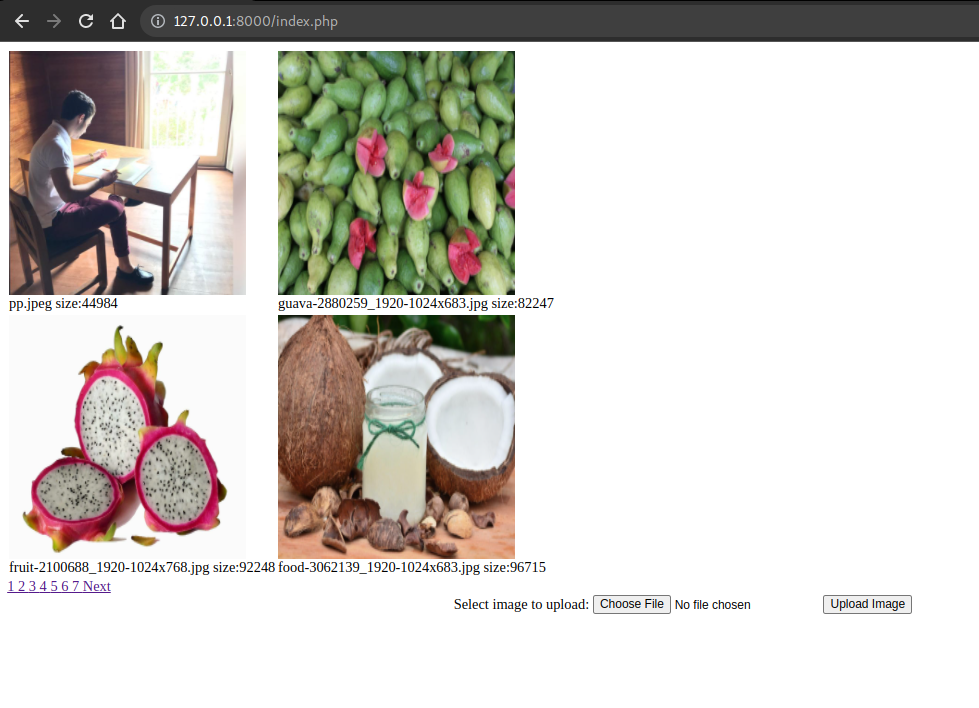
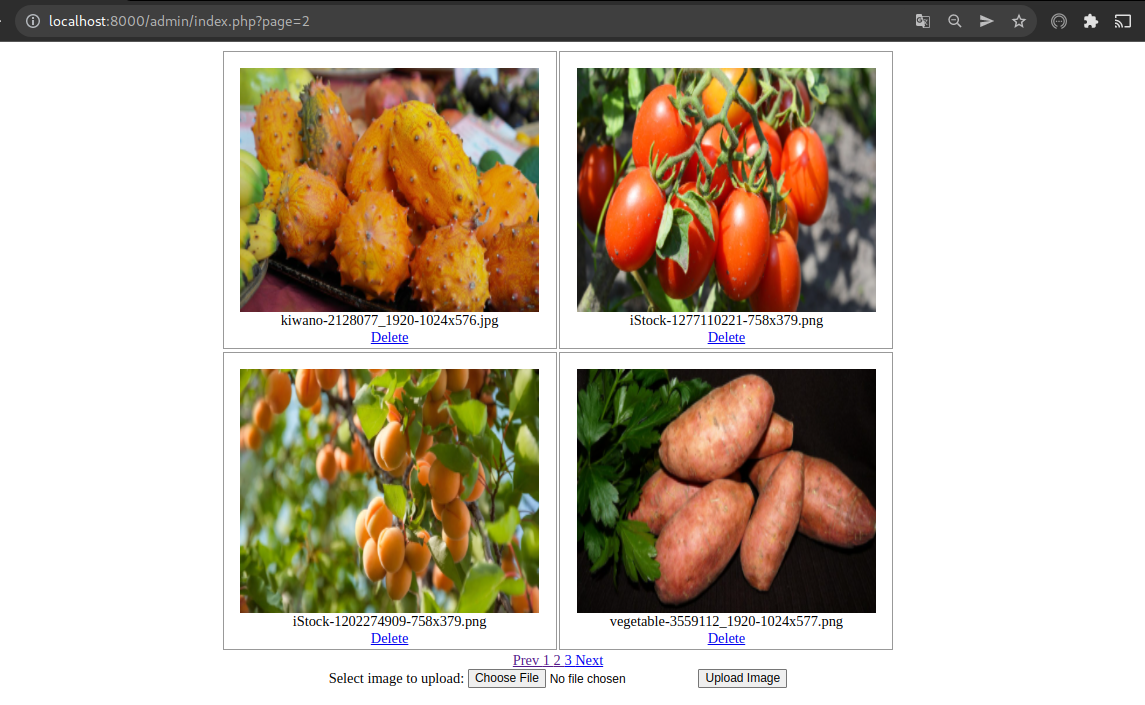
Update CSS

diff --git a/admin/index.php b/admin/index.php
@@ -2,6 +2,27 @@
 
 <head>
 	<title> Pagination </title>
+	<style>
+		.img-frame-cap {
+			width: 333px;
+			background: #fff;
+			padding: 18px 18px 2px 18px;
+			border: 1px solid #999;
+			text-align: center;
+			display: block;
+		}
+
+		.caption {
+			text-align: center;
+			margin-top: 4px;
+			font-size: 12px;
+		}
+
+		.center {
+			margin-left: auto;
+			margin-right: auto;
+		}
+	</style>
 </head>
 
 <body>
@@ -56,16 +77,20 @@
 	$images_per_raw = 2;
 
 	// Start of table
-	echo "<table>";
+	echo "<table class='center'>";
 	echo "<tr>";
 	//Display the data retrieved in a table
 	while ($row = mysqli_fetch_array($result)) {
 		$i = $i + 1;
-		echo "<td>";
-		echo "<img src=" . '"../' . $row['name'] . '" style="height:271px; max-height: 336px; max-width:336px; width: 263px;"' . ">" . '<br>';
-		echo 'Name: ' . $row['origin'];
-		echo "<br>";
-		echo "<a style='text-align: center;' href='?id=" , $row['origin'], "'>Delete </a>";
+		echo '<td>';
+		echo "<div class='img-frame-cap'>";
+		echo "<img src=" . '"../' . $row['name'] . '" style="height:271px; max-height: 336px; max-width:336px; width: 333px;"' . ">" . '<br>';
+		echo "<div classe='caption'>";
+		echo $row['origin'] . "</div>";
+		echo "<div style='text-align: center;'>";
+		echo "<a href='?id=", $row['origin'], "'>Delete </a>" . "</div>";
+		echo "</div>";
+
 		echo "</td>";
 		if ($i % $images_per_raw == 0) {
 			echo "</tr>";
@@ -79,7 +104,7 @@
 
 
 	//Displaying hrefs to each page number with prev and nesxt
-
+	echo "<div style='text-align: center;'>";
 	if ($page >= 2) {
 		echo "<a href='index.php?page=" . ($page - 1) . "'>  Prev </a>";
 	}
@@ -97,7 +122,7 @@
 	if ($page < $total_pages) {
 		echo "<a href='index.php?page=" . ($page + 1) . "'>  Next </a>";
 	}
-
+	echo "</div>";
 	?>
 	<form style="text-align: center; " action="upload.php" method="post" enctype="multipart/form-data">
 		Select image to upload:
